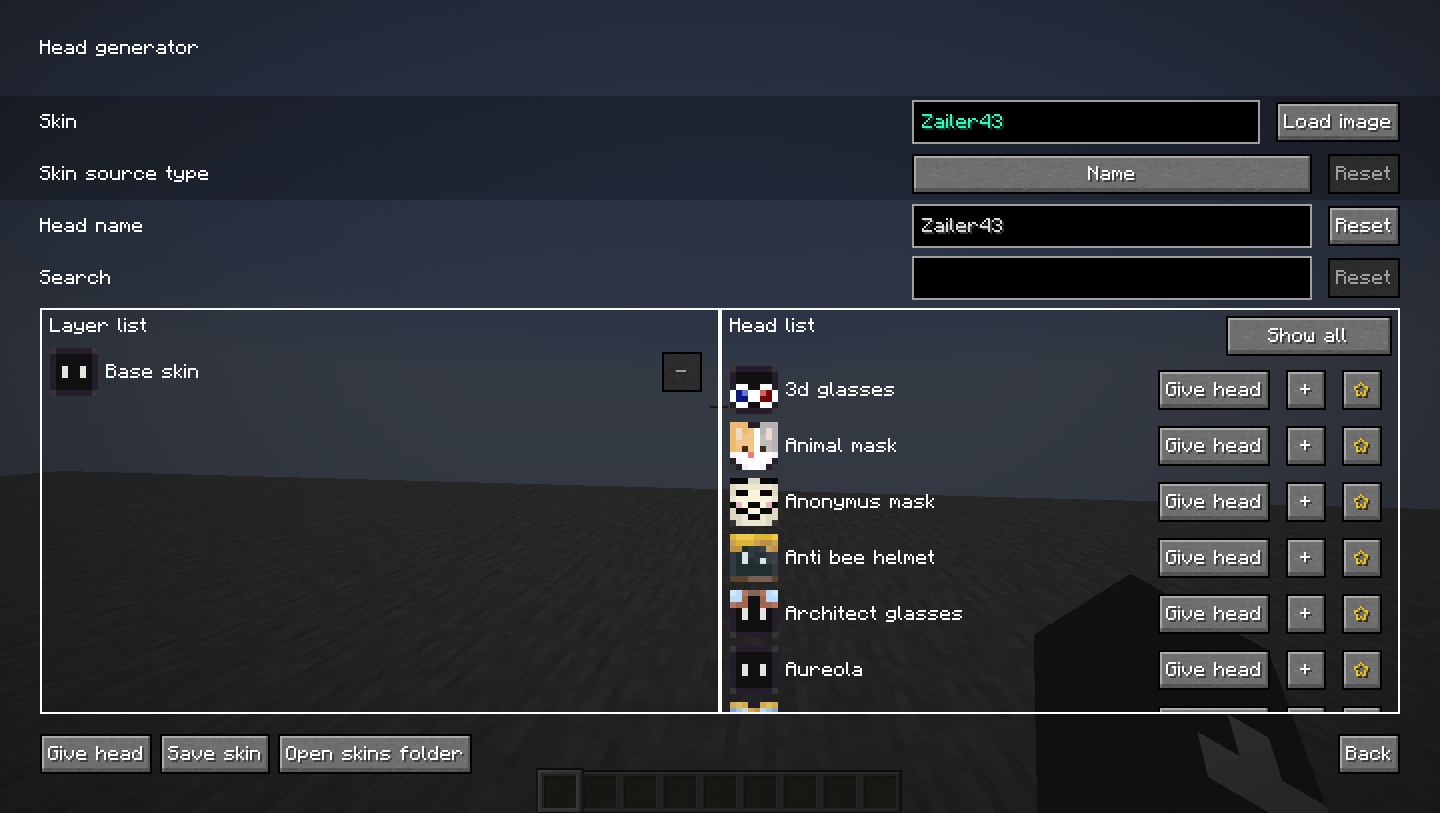
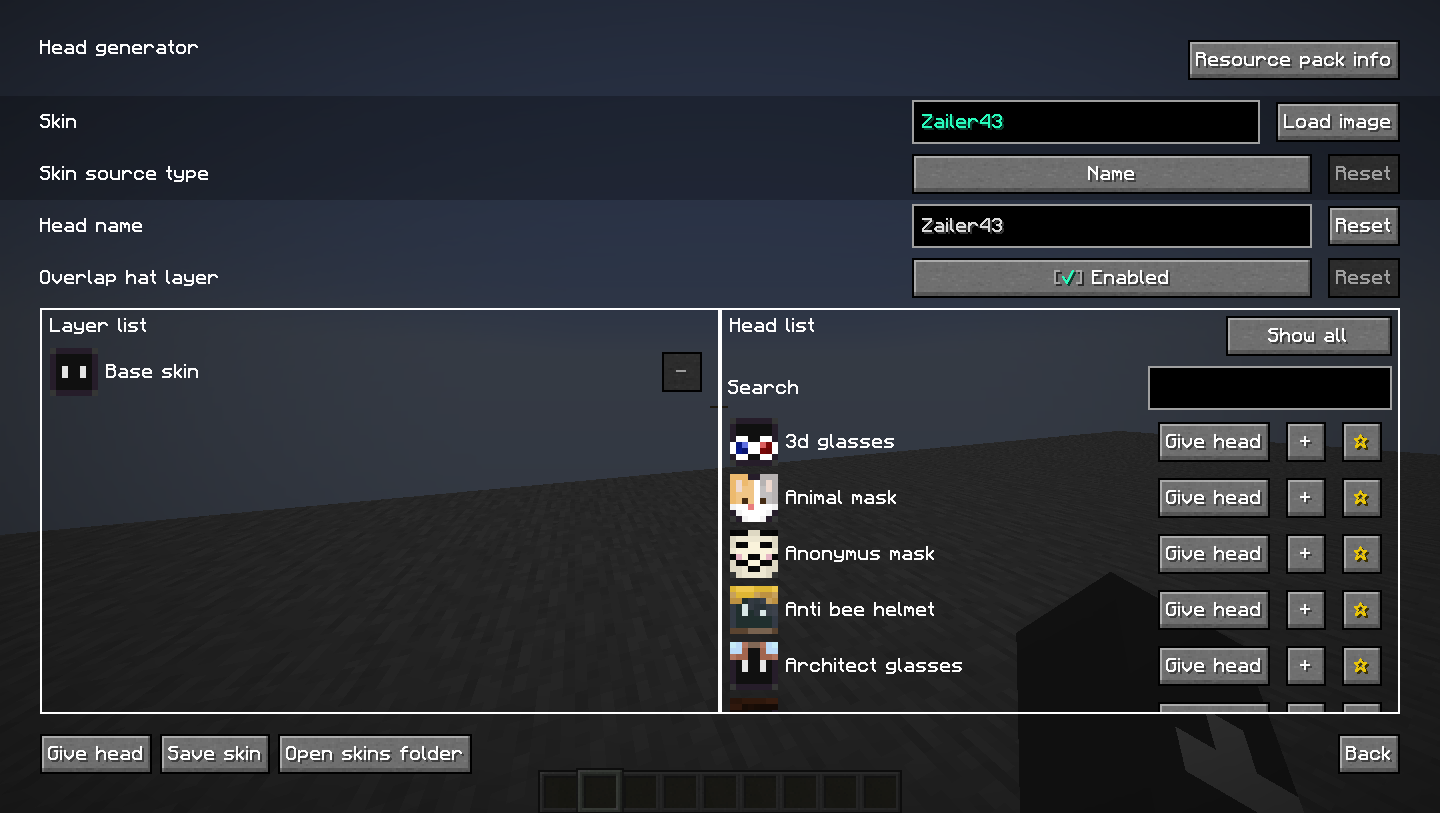
Add option to overlap hat layer in head generator * Also add a config to choose its default value

diff --git a/src/main/java/fzmm/zailer/me/client/gui/headgenerator/HeadGeneratorScreen.java b/src/main/java/fzmm/zailer/me/client/gui/headgenerator/HeadGeneratorScreen.java
@@ -4,10 +4,7 @@ import fzmm.zailer.me.client.FzmmClient;
 import fzmm.zailer.me.client.gui.BaseFzmmScreen;
 import fzmm.zailer.me.client.gui.components.image.ImageButtonWidget;
 import fzmm.zailer.me.client.gui.components.image.mode.SkinMode;
-import fzmm.zailer.me.client.gui.components.row.ButtonRow;
-import fzmm.zailer.me.client.gui.components.row.ImageButtonRow;
-import fzmm.zailer.me.client.gui.components.row.ImageRows;
-import fzmm.zailer.me.client.gui.components.row.TextBoxRow;
+import fzmm.zailer.me.client.gui.components.row.*;
 import fzmm.zailer.me.client.gui.headgenerator.components.HeadComponentEntry;
 import fzmm.zailer.me.client.gui.headgenerator.components.HeadLayerComponentEntry;
 import fzmm.zailer.me.client.logic.headGenerator.HeadData;
@@ -15,7 +12,7 @@ import fzmm.zailer.me.client.logic.headGenerator.HeadGenerator;
 import fzmm.zailer.me.client.logic.headGenerator.HeadGeneratorResources;
 import fzmm.zailer.me.utils.FzmmUtils;
 import fzmm.zailer.me.utils.HeadUtils;
-import io.wispforest.owo.ui.component.ButtonComponent;
+import io.wispforest.owo.config.ui.component.ConfigToggleButton;
 import io.wispforest.owo.ui.container.FlowLayout;
 import io.wispforest.owo.ui.core.Component;
 import io.wispforest.owo.ui.core.Sizing;
@@ -45,12 +42,14 @@ import java.util.List;
 import java.util.concurrent.CompletableFuture;
 import java.util.concurrent.TimeUnit;
 
+@SuppressWarnings("UnstableApiUsage")
 public class HeadGeneratorScreen extends BaseFzmmScreen {
     private static final String HEAD_GENERATOR_WIKI_LINK = "https://github.com/Zailer43/FZMM-Mod/wiki/Head-Generator-Wiki";
     private static final Path SKIN_SAVE_FOLDER_PATH = Path.of(FabricLoader.getInstance().getGameDir().toString(), FzmmClient.MOD_ID, "skins");
     private static final String SKIN_ID = "skin";
     private static final String SKIN_SOURCE_TYPE_ID = "skinSourceType";
     private static final String HEAD_NAME_ID = "headName";
+    private static final String OVERLAP_HAT_LAYER_ID = "overlapHatLayer";
     private static final String SEARCH_ID = "search";
     private static final String HEAD_LIST_ID = "head-list";
     private static final String LAYER_LIST_ID = "layer-list";
@@ -63,6 +62,7 @@ public class HeadGeneratorScreen extends BaseFzmmScreen {
     private static final Text SHOW_FAVORITES_TEXT = Text.translatable("fzmm.gui.headGenerator.button.toggleFavoriteList.favorite");
     private ImageButtonWidget skinButton;
     private TextFieldWidget headNameField;
+    private ConfigToggleButton overlapHatLayerButton;
     private TextFieldWidget searchField;
     private FlowLayout headListLayout;
     private FlowLayout layerListLayout;
@@ -84,6 +84,7 @@ public class HeadGeneratorScreen extends BaseFzmmScreen {
         this.headNameField = TextBoxRow.setup(rootComponent, HEAD_NAME_ID, "");
         rootComponent.childById(TextFieldWidget.class, ImageButtonRow.getImageValueFieldId(SKIN_ID))
                 .setChangedListener(this.headNameField::setText);
+        this.overlapHatLayerButton = BooleanRow.setup(rootComponent, OVERLAP_HAT_LAYER_ID, FzmmClient.CONFIG.headGenerator.defaultOverlapHatLayer(), button -> this.client.execute(this::updatePreviews));
         this.searchField = TextBoxRow.setup(rootComponent, SEARCH_ID, "", s -> this.applyFilters());
         this.headListLayout = rootComponent.childById(FlowLayout.class, HEAD_LIST_ID);
         this.layerListLayout = rootComponent.childById(FlowLayout.class, LAYER_LIST_ID);
@@ -94,12 +95,12 @@ public class HeadGeneratorScreen extends BaseFzmmScreen {
         ButtonRow.setup(rootComponent, ButtonRow.getButtonId(SAVE_SKIN_ID), true, this::saveSkinExecute);
         ButtonRow.setup(rootComponent, ButtonRow.getButtonId(OPEN_SKIN_FOLDER_ID), true, button -> Util.getOperatingSystem().open(SKIN_SAVE_FOLDER_PATH.toFile()));
         //other buttons
-        this.toggleFavoriteList =  ButtonRow.setup(rootComponent, TOGGLE_FAVORITE_LIST_ID, true, this::toggleFavoriteListExecute);
+        this.toggleFavoriteList =  ButtonRow.setup(rootComponent, TOGGLE_FAVORITE_LIST_ID, true, buttonComponent -> this.toggleFavoriteListExecute());
         checkNull(this.toggleFavoriteList, "button", TOGGLE_FAVORITE_LIST_ID);
         this.showFavorites = false;
         int toggleFavoriteListWidth = Math.max(this.textRenderer.getWidth(SHOW_ALL_TEXT), this.textRenderer.getWidth(SHOW_FAVORITES_TEXT)) + BUTTON_TEXT_PADDING;
         this.toggleFavoriteList.horizontalSizing(Sizing.fixed(toggleFavoriteListWidth));
-        ButtonRow.setup(rootComponent, WIKI_BUTTON_ID, true, this::wikiExecute);
+        ButtonRow.setup(rootComponent, WIKI_BUTTON_ID, true, buttonComponent -> this.wikiExecute());
 
     }
 
@@ -139,12 +140,12 @@ public class HeadGeneratorScreen extends BaseFzmmScreen {
     private void updatePreviews() {
         for (var component : this.headListLayout.children()) {
             if (component instanceof HeadComponentEntry headEntry)
-                headEntry.update(this.baseSkin);
+                headEntry.update(this.baseSkin, this.overlapHatLayerButton());
         }
 
         for (var component : this.layerListLayout.children()) {
             if (component instanceof HeadLayerComponentEntry layerEntry)
-                layerEntry.update(this.baseSkin);
+                layerEntry.update(this.baseSkin, this.overlapHatLayerButton());
         }
     }
 
@@ -178,7 +179,7 @@ public class HeadGeneratorScreen extends BaseFzmmScreen {
     private Optional<BufferedImage> getMergedHead() {
         if (this.baseSkin == null)
             return Optional.empty();
-        HeadGenerator headGenerator = new HeadGenerator(this.baseSkin);
+        HeadGenerator headGenerator = new HeadGenerator(this.baseSkin, (boolean) this.overlapHatLayerButton.parsedValue());
 
         for (var entry : this.layerListLayout.children()) {
             // it's a flowlayout so there can be any type of component here
@@ -229,7 +230,7 @@ public class HeadGeneratorScreen extends BaseFzmmScreen {
     public void addLayer(HeadData headData, boolean active) {
         HeadLayerComponentEntry entry = new HeadLayerComponentEntry(headData, this.layerListLayout);
         entry.setEnabled(active);
-        this.skinButton.getImage().ifPresent(entry::update);
+        this.skinButton.getImage().ifPresent(skin -> entry.update(skin, this.overlapHatLayerButton()));
         this.layerListLayout.child(entry);
     }
 
@@ -273,13 +274,13 @@ public class HeadGeneratorScreen extends BaseFzmmScreen {
         return this.baseSkin;
     }
 
-    private void toggleFavoriteListExecute(ButtonComponent buttonComponent) {
+    private void toggleFavoriteListExecute() {
         this.showFavorites = !this.showFavorites;
         this.toggleFavoriteList.setMessage(this.showFavorites ? SHOW_FAVORITES_TEXT : SHOW_ALL_TEXT);
         this.applyFilters();
     }
 
-    private void wikiExecute(ButtonWidget buttonWidget) {
+    private void wikiExecute() {
         assert this.client != null;
 
         this.client.setScreen(new ConfirmLinkScreen(bool -> {
@@ -288,6 +289,10 @@ public class HeadGeneratorScreen extends BaseFzmmScreen {
 
             this.client.setScreen(this);
         }, HEAD_GENERATOR_WIKI_LINK, true));
+    }
+
+    public boolean overlapHatLayerButton() {
+        return (boolean) this.overlapHatLayerButton.parsedValue();
     }
 
     @Override

diff --git a/src/main/java/fzmm/zailer/me/client/gui/components/row/AbstractRow.java b/src/main/java/fzmm/zailer/me/client/gui/components/row/AbstractRow.java
@@ -1,7 +1,9 @@
 package fzmm.zailer.me.client.gui.components.row;
 
 import fzmm.zailer.me.client.gui.BaseFzmmScreen;
+import io.wispforest.owo.ui.component.ButtonComponent;
 import io.wispforest.owo.ui.component.Components;
+import io.wispforest.owo.ui.component.LabelComponent;
 import io.wispforest.owo.ui.container.Containers;
 import io.wispforest.owo.ui.container.FlowLayout;
 import io.wispforest.owo.ui.container.HorizontalFlowLayout;
@@ -24,6 +26,7 @@ public abstract class AbstractRow extends HorizontalFlowLayout {
     public static final int TOTAL_HEIGHT = ROW_HEIGHT + VERTICAL_MARGIN * 2;
     protected final String baseTranslationKey;
     private boolean hasHoveredBackground;
+    private String id;
 
     public AbstractRow(String baseTranslationKey) {
         super(Sizing.fill(100), Sizing.fixed(TOTAL_HEIGHT));
@@ -34,6 +37,7 @@ public abstract class AbstractRow extends HorizontalFlowLayout {
         super(Sizing.fill(100), Sizing.fixed(TOTAL_HEIGHT));
         this.baseTranslationKey = baseTranslationKey;
         this.hasHoveredBackground = true;
+        this.id = id;
         Component[] components = this.getComponents(id, tooltipId);
 
         FlowLayout rowLayout = (FlowLayout) Containers
@@ -46,7 +50,8 @@ public abstract class AbstractRow extends HorizontalFlowLayout {
         FlowLayout rightComponentsLayout = (FlowLayout) Containers
                 .horizontalFlow(Sizing.content(), Sizing.fill(100))
                 .verticalAlignment(VerticalAlignment.CENTER)
-                .positioning(Positioning.relative(100, 0));
+                .positioning(Positioning.relative(100, 0))
+                .id(getRightLayoutId(id));
 
 
         for (var component : components) {
@@ -103,6 +108,10 @@ public abstract class AbstractRow extends HorizontalFlowLayout {
         return id + "-label";
     }
 
+    public static String getRightLayoutId(String id) {
+        return id + "-right-layout";
+    }
+
     public String getBaseTranslationKey() {
         return "fzmm.gui." + this.baseTranslationKey;
     }
@@ -139,5 +148,31 @@ public abstract class AbstractRow extends HorizontalFlowLayout {
     public AbstractRow setHasHoveredBackground(boolean hasHoveredBackground) {
         this.hasHoveredBackground = hasHoveredBackground;
         return this;
+    }
+
+    public void removeResetButton() {
+        FlowLayout rightLayout = this.childById(FlowLayout.class, getRightLayoutId(this.id));
+        if (rightLayout == null)
+            return;
+
+        ButtonComponent resetButton = rightLayout.childById(ButtonComponent.class, getResetButtonId(this.id));
+
+        if (resetButton == null)
+            return;
+
+        rightLayout.removeChild(resetButton);
+    }
+
+    public void removeHorizontalMargins() {
+        FlowLayout rightLayout = this.childById(FlowLayout.class, getRightLayoutId(this.id));
+        if (rightLayout != null && rightLayout.children().size() > 0) {
+            Component lastElement = rightLayout.children().get(rightLayout.children().size() - 1);
+            Insets previousMargins = lastElement.margins().get();
+            lastElement.margins(previousMargins.withRight(0));
+        }
+
+        LabelComponent label = this.childById(LabelComponent.class, getLabelId(id));
+        if (label != null)
+            label.margins(Insets.left(0));
     }
 }

diff --git a/src/main/java/fzmm/zailer/me/client/gui/components/row/TextBoxRow.java b/src/main/java/fzmm/zailer/me/client/gui/components/row/TextBoxRow.java
@@ -3,9 +3,11 @@ package fzmm.zailer.me.client.gui.components.row;
 import fzmm.zailer.me.client.gui.BaseFzmmScreen;
 import io.wispforest.owo.ui.component.ButtonComponent;
 import io.wispforest.owo.ui.component.Components;
+import io.wispforest.owo.ui.component.TextBoxComponent;
 import io.wispforest.owo.ui.container.FlowLayout;
 import io.wispforest.owo.ui.core.Component;
 import io.wispforest.owo.ui.core.Sizing;
+import io.wispforest.owo.ui.parsing.UIParsing;
 import net.minecraft.client.gui.widget.TextFieldWidget;
 import org.jetbrains.annotations.Nullable;
 import org.w3c.dom.Element;
@@ -63,7 +65,25 @@ public class TextBoxRow extends AbstractRow {
         String baseTranslationKey = getBaseTranslationKey(element);
         String id = getId(element);
         String tooltipId = getTooltipId(element, id);
+        boolean removeResetButton = UIParsing.childElements(element).containsKey("removeResetButton") &&
+                UIParsing.parseBool(UIParsing.childElements(element).get("removeResetButton"));
+        boolean removeHorizontalMargins = UIParsing.childElements(element).containsKey("removeHorizontalMargins") &&
+                UIParsing.parseBool(UIParsing.childElements(element).get("removeHorizontalMargins"));
+        int fieldSize = UIParsing.childElements(element).containsKey("removeHorizontalMargins") ?
+                UIParsing.parseSignedInt(UIParsing.childElements(element).get("fieldSize")) : -1;
 
-        return new TextBoxRow(baseTranslationKey, id, tooltipId);
+        TextBoxRow row = new TextBoxRow(baseTranslationKey, id, tooltipId);
+        if (removeHorizontalMargins)
+            row.removeHorizontalMargins();
+
+        if (removeResetButton)
+            row.removeResetButton();
+
+        if (fieldSize > 0) {
+            TextBoxComponent textBox = row.childById(TextBoxComponent.class, getTextBoxId(id));
+            if (textBox != null)
+                textBox.horizontalSizing(Sizing.fixed(fieldSize));
+        }
+        return row;
     }
 }

diff --git a/src/main/java/fzmm/zailer/me/client/gui/headgenerator/components/HeadComponentEntry.java b/src/main/java/fzmm/zailer/me/client/gui/headgenerator/components/HeadComponentEntry.java
@@ -43,7 +43,7 @@ public class HeadComponentEntry extends AbstractHeadListEntry {
         TextRenderer textRenderer = MinecraftClient.getInstance().textRenderer;
 
         int giveButtonWidth = textRenderer.getWidth(GIVE_BUTTON_TEXT) + BaseFzmmScreen.BUTTON_TEXT_PADDING;
-        this.giveButton = Components.button(GIVE_BUTTON_TEXT, this::giveButtonExecute);
+        this.giveButton = Components.button(GIVE_BUTTON_TEXT, buttonComponent -> this.giveButtonExecute(parent.overlapHatLayerButton()));
         this.giveButton.sizing(Sizing.fixed(giveButtonWidth), Sizing.fixed(20))
                 .margins(Insets.right(BaseFzmmScreen.COMPONENT_DISTANCE));
 
@@ -77,10 +77,10 @@ public class HeadComponentEntry extends AbstractHeadListEntry {
             super.draw(matrices, mouseX, mouseY, partialTicks, delta);
     }
 
-    private void giveButtonExecute(ButtonComponent button) {
+    private void giveButtonExecute(boolean overlapHatLayer) {
         BufferedImage headTexture = this.getHeadSkin();
 
-        BufferedImage image = new HeadGenerator(this.parentScreen.getBaseSkin())
+        BufferedImage image = new HeadGenerator(this.parentScreen.getBaseSkin(), overlapHatLayer)
                 .addTexture(headTexture)
                 .getHeadTexture();
 

diff --git a/src/main/java/fzmm/zailer/me/client/gui/headgenerator/components/AbstractHeadListEntry.java b/src/main/java/fzmm/zailer/me/client/gui/headgenerator/components/AbstractHeadListEntry.java
@@ -60,7 +60,7 @@ public abstract class AbstractHeadListEntry extends HorizontalFlowLayout {
         return this.headData.headSkin();
     }
 
-    public void update(BufferedImage skinBase) {
+    public void update(BufferedImage skinBase, boolean overlapHatLayer) {
         MinecraftClient client = MinecraftClient.getInstance();
         TextureManager textureManager = client.getTextureManager();
 
@@ -68,7 +68,7 @@ public abstract class AbstractHeadListEntry extends HorizontalFlowLayout {
             if (this.previewIdentifier != null)
                 textureManager.destroyTexture(this.previewIdentifier);
 
-            BufferedImage previewSkin = new HeadGenerator(skinBase).addTexture(this.headData.headSkin()).getHeadTexture();
+            BufferedImage previewSkin = new HeadGenerator(skinBase, overlapHatLayer).addTexture(this.headData.headSkin()).getHeadTexture();
             ImageUtils.toNativeImage(previewSkin).ifPresent(nativeImage -> {
                 NativeImageBackedTexture preview = new NativeImageBackedTexture(nativeImage);
                 this.previewIdentifier = textureManager.registerDynamicTexture("fzmm_head", preview);

diff --git a/src/main/java/fzmm/zailer/me/client/logic/headGenerator/HeadGeneratorResources.java b/src/main/java/fzmm/zailer/me/client/logic/headGenerator/HeadGeneratorResources.java
@@ -13,22 +13,6 @@ import java.util.*;
 public class HeadGeneratorResources {
     public static final String HEADS_FOLDER = "textures/heads";
 
-    public static List<HeadData> getHeadTexturesOf(BufferedImage skinBase) {
-        if (skinBase == null)
-            return new ArrayList<>();
-
-        List<HeadData> skinWithHeadTextureList = new ArrayList<>();
-
-        for (var headData : loadHeads()) {
-            BufferedImage skinWithHeadTexture = new HeadGenerator(skinBase)
-                    .addTexture(headData.headSkin())
-                    .getHeadTexture();
-            skinWithHeadTextureList.add(new HeadData(skinWithHeadTexture, headData.displayName(), headData.key()));
-        }
-
-        return skinWithHeadTextureList;
-    }
-
     public static Set<HeadData> loadHeads() {
         Set<HeadData> headData = new HashSet<>();
         MinecraftClient minecraftClient = MinecraftClient.getInstance();

diff --git a/src/main/java/fzmm/zailer/me/client/logic/headGenerator/HeadGenerator.java b/src/main/java/fzmm/zailer/me/client/logic/headGenerator/HeadGenerator.java
@@ -8,9 +8,14 @@ import java.awt.image.BufferedImage;
 public final class HeadGenerator {
     private final BufferedImage image;
 
-    public HeadGenerator(@NotNull BufferedImage image) {
+    public HeadGenerator(@NotNull BufferedImage skin, boolean overlapHatLayer) {
         this.image = new BufferedImage(64, 64, BufferedImage.TYPE_INT_ARGB);
-        this.addTexture(image, false);
+
+        Graphics2D g2d = this.image.createGraphics();
+        g2d.drawImage(skin, 0, 0, 32, 16, 0, 0, 32, 16, null);
+        if (overlapHatLayer)
+            g2d.drawImage(skin, 0, 0, 32, 16, 32, 0, 64, 16, null);
+        g2d.dispose();
     }
 
     public HeadGenerator addTexture(BufferedImage texture) {

diff --git a/src/main/java/fzmm/zailer/me/config/FzmmConfigModel.java b/src/main/java/fzmm/zailer/me/config/FzmmConfigModel.java
@@ -104,6 +104,7 @@ public class FzmmConfigModel {
     public static class HeadGeneratorNest {
         @ExcludeFromScreen
         public Set<String> favoriteSkins = new HashSet<>();
+        public boolean defaultOverlapHatLayer = true;
     }
 
     @SuppressWarnings("unused")

diff --git a/README.md b/README.md
@@ -103,8 +103,6 @@ It also allows 128x128 skins.
 ## Head generator
 Modify skins in seconds and get the head instantly, you can add accessories like glasses, hats, helmets, masks, beards, etc.
 
-Disclaimer: the second layer of the original skin is removed (for now).
-
 <details>
 <summary>Images</summary>
 
